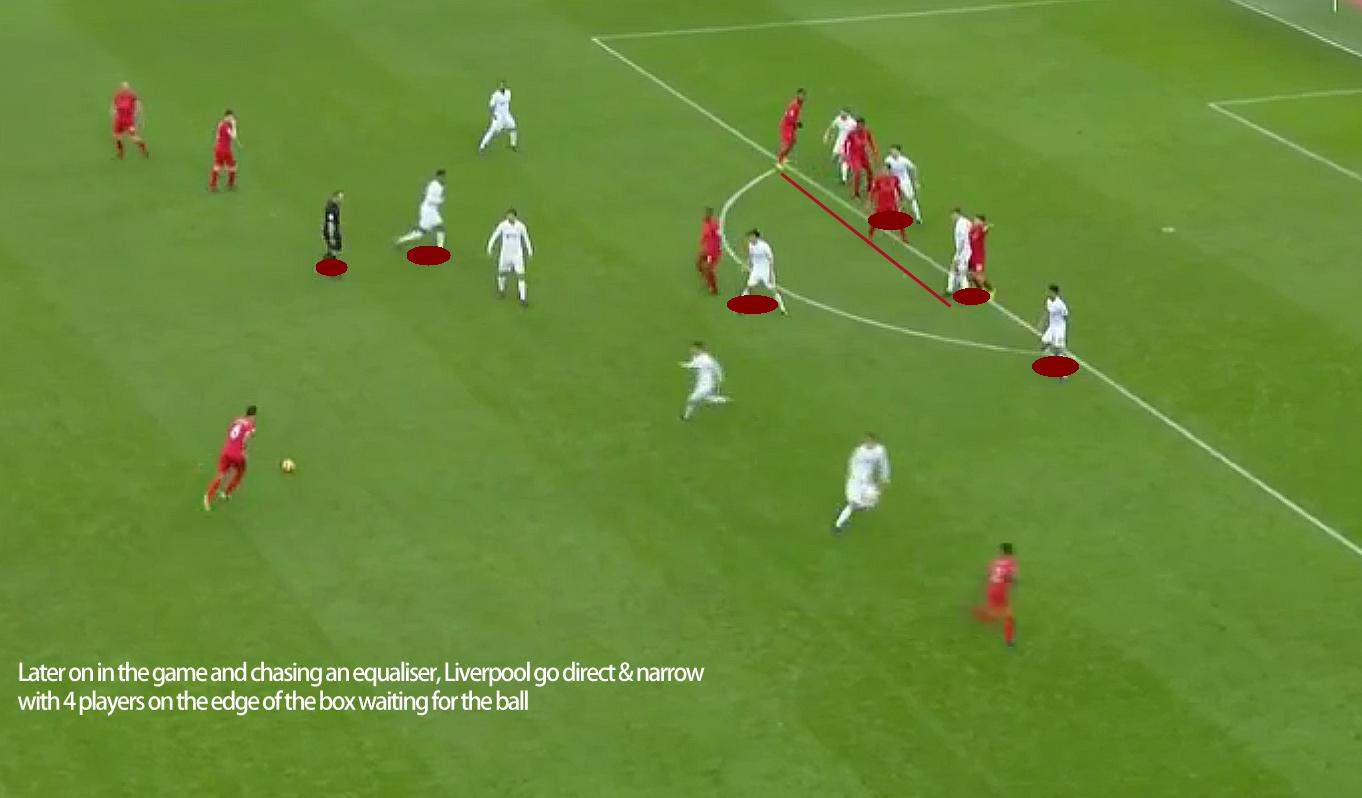
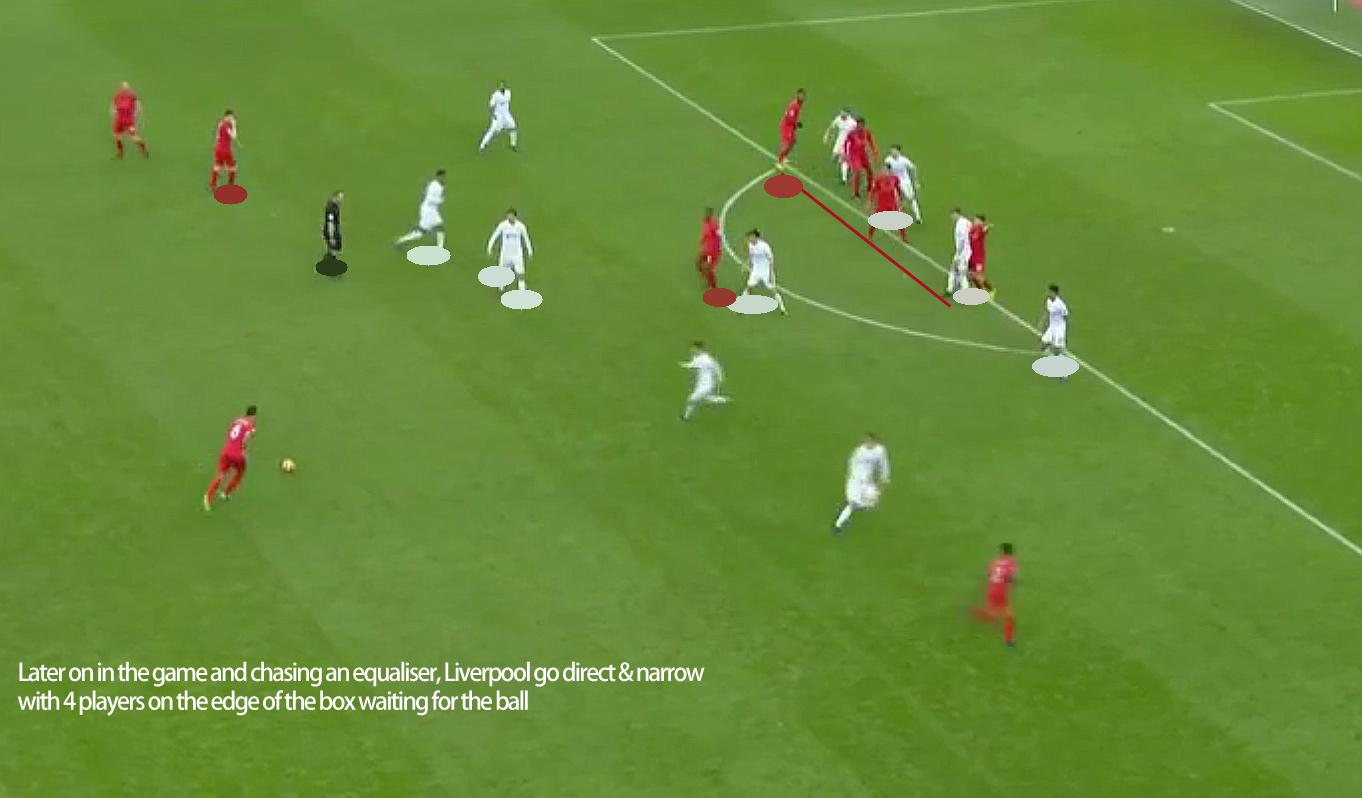
Added colour

diff --git a/utils.py b/utils.py
@@ -1,32 +1,76 @@
 from objects import Detection, Detections
+from sklearn.cluster import KMeans
 import PIL.Image as Image
 import numpy as np
 import PIL.ImageDraw as ImageDraw
 
-def to_detections(boxes, scores, classes):
+
+def to_detections(image, boxes, scores, classes):
     if len(boxes) != len(scores) and len(scores) != len(classes):
         raise Exception("Length of boxes, scores, and classes are different")
 
     total_detections = []
     n = len(boxes)
+    im_width, im_height = image.size
+
     for i in range(n):
         detection = Detection(boxes[i], scores[i], classes[i])
+        ymin, xmin, ymax, xmax = boxes[i]
+        detection.normalized_box = (xmin * im_width, xmax * im_width, ymin * im_height, ymax * im_height)
+        detection.box_image = image.crop((detection.normalized_box[0], detection.normalized_box[2], detection.normalized_box[1], detection.normalized_box[3]))
+
         total_detections.append(detection)
 
     return Detections(total_detections)
 
 
-def draw_ellipses_around_players(image, players, fill=128):
+def load_image_into_numpy_array(image):
+    (im_height, im_width, channels) = np.array(image).shape
+    image_np = np.array(image.getdata()).reshape((im_height, im_width, channels))
+    if channels > 3:
+        image_np = image_np[:, :, :3]
+    return image_np.astype(np.uint8)
+
+
+def draw_ellipses_around_players(image, players):
     image_pil = Image.fromarray(np.uint8(image)).convert('RGB')
-    im_width, im_height = image_pil.size
 
     draw = ImageDraw.Draw(image_pil)
     for player in players:
-        ymin, xmin, ymax, xmax = player.box
-        (x0, x1, y0, y1) = (xmin * im_width, xmax * im_width, ymin * im_height, ymax * im_height)
+        (x0, x1, y0, y1) = player.normalized_box
         player_height = y1 - y0
         y0 = y1 - player_height*0.2
-        draw.ellipse([x0, y0, x1, y1], fill=128)
+        #print(player.colour)
+        draw.ellipse([x0, y0, x1, y1], fill=player.colour)
 
     np.copyto(image, np.array(image_pil))
     return image
+
+def centroid_histogram(clt):
+    numLabels = np.arange(0, len(np.unique(clt.labels_)) + 1)
+    (hist, _) = np.histogram(clt.labels_, bins = numLabels)
+    hist = hist.astype("float")
+    hist /= hist.sum()
+    return hist
+
+def get_colours_from_image(image):
+    height, width, dim = image.shape
+    img_vec = np.reshape(image, [height * width, dim] )
+    kmeans = KMeans(n_clusters=2)
+    kmeans.fit(img_vec)
+    score = centroid_histogram(kmeans)
+    colours = []
+    scores = []
+    for i, center in enumerate(kmeans.cluster_centers_):
+        colour = (int(center[0]), int(center[1]), int(center[2]))
+        if colour == (0,0,0):
+            continue
+        colours.append(colour)
+        scores.append(score[i])
+    return colours[np.argsort(scores)[-2]]
+
+def set_colours_on_detections(detections):
+    for detection in detections:
+        detection.colour = get_colours_from_image(load_image_into_numpy_array(detection.box_image))
+
+

diff --git a/run.py b/run.py
@@ -5,13 +5,6 @@ import numpy as np
 import label_map_util
 import utils
 
-def load_image_into_numpy_array(image):
-    (im_height, im_width, channels) = np.array(image).shape
-    image_np = np.array(image.getdata()).reshape((im_height, im_width, channels))
-    if channels > 3:
-        image_np = image_np[:, :, :3]
-    return image_np.astype(np.uint8)
-
 
 detection_graph = tf.Graph()
 with detection_graph.as_default():
@@ -44,7 +37,7 @@ with detection_graph.as_default():
     image_path = TEST_IMAGES_PATHS[i]
 
     image = Image.open(image_path)
-    image_np = load_image_into_numpy_array(image)
+    image_np = utils.load_image_into_numpy_array(image)
     image_np_expanded = np.expand_dims(image_np, axis=0)
     (boxes, scores, classes, num) = sess.run([
         detection_boxes,
@@ -55,9 +48,10 @@ with detection_graph.as_default():
         feed_dict = { image_tensor: image_np_expanded }
         )
 
-    detections = utils.to_detections(np.squeeze(boxes), np.squeeze(scores), np.squeeze(classes))
+    detections = utils.to_detections(image, np.squeeze(boxes), np.squeeze(scores), np.squeeze(classes))
 
-    detections = detections.filter_classes(1).filter_score(gt=0.5)
+    detections = detections.filter_classes(1).filter_score(gt=0.3)
+    utils.set_colours_on_detections(detections)
 
     utils.draw_ellipses_around_players(image_np, detections)
 

diff --git a/objects.py b/objects.py
@@ -3,6 +3,9 @@ class Detection(object):
     box = None
     score = None
     classes = None
+    normalized_box = None
+    box_image = None
+    colour = None
 
     def __init__(self, box, score, classes):
         self.box = box
